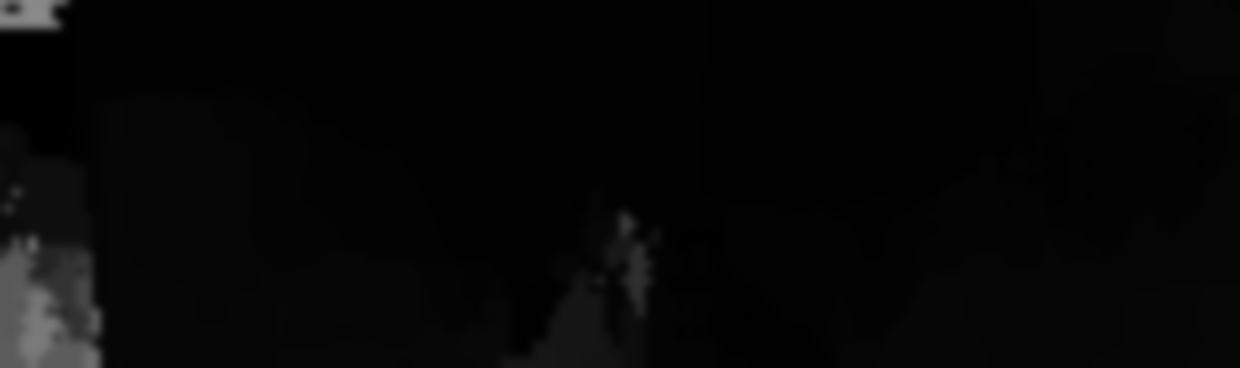
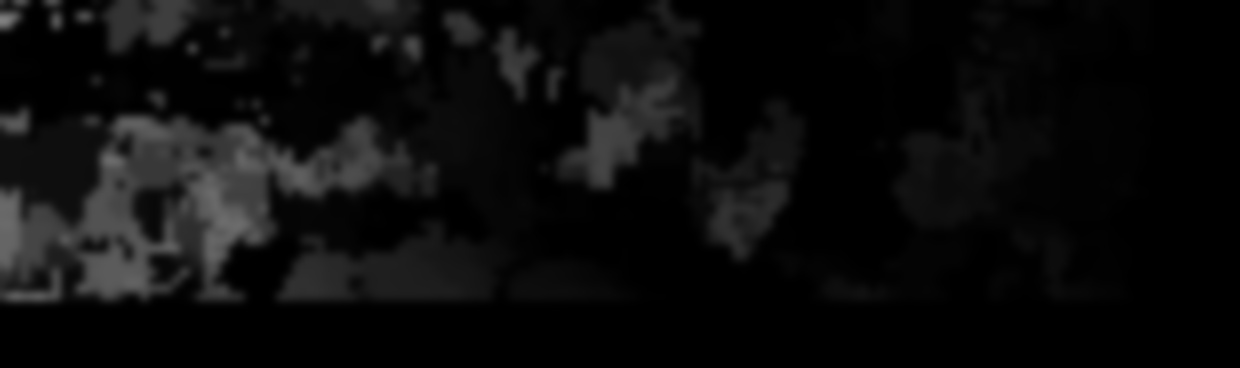
add

diff --git a/A4/a4q2.py b/A4/a4q2.py
@@ -3,8 +3,9 @@ import numpy as np
 import cv2 as cv
 import matplotlib.pyplot as plt
 import progressbar
+from scipy.ndimage.filters import gaussian_filter
 
-patch_size = 8
+patch_size = 4
 
 f = 721.537700
 px = 609.559300
@@ -26,10 +27,17 @@ def load_grey_scale_image(filepath):
     return image
 
 
-left_grey = load_grey_scale_image('./A4_files/000020_left.jpg')
-right_grey = load_grey_scale_image('./A4_files/000020_right.jpg')
-left_color = load_color_image('./A4_files/000020_left.jpg')
-right_color = load_color_image('./A4_files/000020_right.jpg')
+def increase_brightness(img, value=50):
+    hsv = cv.cvtColor(img, cv.COLOR_BGR2HSV)
+    h, s, v = cv.split(hsv)
+
+    lim = 255 - value
+    v[v > lim] = 255
+    v[v <= lim] += value
+
+    final_hsv = cv.merge((h, s, v))
+    img = cv.cvtColor(final_hsv, cv.COLOR_HSV2BGR)
+    return img
 
 
 def show_image(img):
@@ -40,6 +48,18 @@ def show_image(img):
 
 def save_image(fname, img):
     cv.imwrite(fname, img)
+
+
+left_color = load_color_image('./A4_files/000020_left.jpg')
+right_color = load_color_image('./A4_files/000020_right.jpg')
+left_bright = increase_brightness(left_color)
+right_bright = increase_brightness(right_color)
+save_image("./A4_files/000020_left_bright.jpg", left_bright)
+save_image("./A4_files/000020_right_bright.jpg", right_bright)
+left_grey = load_grey_scale_image('./A4_files/000020_left_bright.jpg')
+right_grey = load_grey_scale_image('./A4_files/000020_right_bright.jpg')
+# left_grey = gaussian_filter(left_grey, sigma=7)
+# right_grey = gaussian_filter(right_grey, sigma=7)
 
 
 def ssd(patch1, patch2):
@@ -71,21 +91,21 @@ def draw_box(x1, y1, x2, y2, img, thickness=0):
 # (a)
 
 
-def down_sample(img, factor, ite=1):
+def down_sample(img, factor, ite=3):
     for i in range(ite):
         height, width = img.shape[0], img.shape[1]
         img = cv.pyrDown(img, dstsize=(width // factor, height // factor))
     return img
 
 
-def up_sample(img, factor, ite=1):
+def up_sample(img, factor, ite=3):
     for i in range(ite):
         height, width = img.shape[0], img.shape[1]
         img = cv.pyrUp(img, dstsize=(width * factor, height * factor))
     return img
 
 
-def scan_all(downsample_factor=2, img1=left_grey, img2=right_grey, patch_size=patch_size):
+def scan_all(scan_size=1000000, downsample_factor=2, img1=left_grey, img2=right_grey, patch_size=patch_size):
     img1 = down_sample(img1, downsample_factor)
     img2 = down_sample(img2, downsample_factor)
     height1, width1 = img1.shape[0], img1.shape[1]
@@ -93,50 +113,47 @@ def scan_all(downsample_factor=2, img1=left_grey, img2=right_grey, patch_size=pa
     assert height1 == height2 and width1 == width2
 
     # Setup progress bar
-    ite_num = (height1 - 2 * patch_size) * (width1 - 2 *
-                                            patch_size) * (width2 - 2 * patch_size)
+    ite_num = height1 * width1 * 2 * min(scan_size, width2)
     bar = progressbar.ProgressBar(maxval=ite_num,
                                   widgets=[progressbar.Bar('=', '[', ']'), ' ', progressbar.Percentage()])
     bar.start()
     count = 0
-
     # Start sliding window
     diff = np.zeros((height1, width1))
     match = np.zeros((height1, width1))
-    for y1 in range(height1):
-        for x1 in range(width1):
-            x1i = max(0, x1 - patch_size)
-            to_left = abs(x1 - x1i)
-            x1d = min(width1 - 1, x1 + patch_size)
-            to_right = abs(x1 - x1d)
-            y1i = max(0, y1 - patch_size)
-            to_up = abs(y1 - y1i)
-            y1d = min(height1 - 1, y1 + patch_size)
-            to_down = abs(y1 - y1d)
-            patch1 = img1[y1i: y1d, x1i:x1d]
-
+    for y1 in range(patch_size, height1 - patch_size):
+        for x1 in range(patch_size, width1 - patch_size):
+            patch1 = img1[y1 - patch_size: y1 + patch_size,
+                          x1 - patch_size:x1 + patch_size]
             y2 = y1
             best_score = None
             best_ind = None
-            yd = min(height1 - 1, y1)
-            xd = min(width1 - 1, x1)
-            for x2 in range(to_left, width2 - to_right):
-                x2i = max(0, x2 - to_left)
-                x2d = min(width2 - 1, x2 + to_right)
-                y2i = max(0, y2 - to_up)
-                y2d = min(height2 - 1, y2 + to_down)
-                patch2 = img2[y2i: y2d, x2i:x2d]
-                assert patch1.shape == patch2.shape
+            max_col = min(width2 - patch_size - x1 - 1, scan_size)
+            for k in range(0, max_col):
+                xi = x1 - patch_size + k
+                xd = x1 + patch_size + k
+                patch2 = img2[y2 - patch_size:y2 + patch_size, xi:xd]
                 score = ssd(patch1, patch2)
-                if best_score is None or best_score > score:
+                if best_score is None or score < best_score:
                     best_score = score
-                    best_ind = x2
-                count += 1
-                if count <= ite_num:
-                    bar.update(count)
+                    best_ind = k
+            diff[y1 - patch_size, x1 - patch_size] = best_ind
+            # for x2 in range(max(x1 - scan_size, patch_size), min(x1 + scan_size, width2 - patch_size)):
+            #     patch2 = img2[y2 - patch_size: y2 + patch_size,
+            #                   x2 - patch_size:x2 + patch_size]
+            #     assert patch1.shape == patch2.shape
+            #     score = ssd(patch1, patch2)
+            #     if best_score is None or best_score > score:
+            #         best_score = score
+            #         best_ind = x2
+            #     count += 1
+            #     if count <= ite_num:
+            #         bar.update(count)
             # addup = 10000 * score/((patch_size ** 2 * 255) ** 2)
-            addup = 0
-            diff[y1, x1] = abs(best_ind - x1) + addup
+            # addup = 0
+            # diff[y1, x1] = abs(best_ind - x1) + addup
+    print(diff)
+    print("\ndone matching")
     diff = up_sample(diff, downsample_factor)
     save_image("./diff.jpg", diff)
     return diff
@@ -192,39 +209,5 @@ if __name__ == "__main__":
     depth = calculate_depth(diff)
     img1 = vconcate(left_grey, right_grey)
     img2 = vconcate(img1, depth)
-    save_image('./concated.jpg', img2)
+    save_image('./concated4.jpg', img2)
     # (b)
-  bar.start()
-  count = 0
-  myobj = plt.show(right_color)
-
-  point1 = (y1, x1)
-  point2 = (y1, x2)
-  point3 = (y2, x1)
-  point4 = (y2, x2)
-  points = [point1, point2, point3, point4]
-  for x in range(patch_size, width_right - patch_size):
-    for point in points:
-      y = point[0], point[1]
-  # for x in range(x1, x2 + 1):
-  #   for y in range(y1, y2 + 1):
-  #     target_patch = left_img[y - patch_size: y + patch_size, x - patch_size: x + patch_size]
-      
-  #     scores = []
-  #     for x2 in range(patch_size, width_right - patch_size):
-  #       source_patch = right_img[y - patch_size: y + patch_size, x2 - patch_size: x2 + patch_size]
-  #       score = nc(source_patch, target_patch)
-  #       scores.append(score)
-  #       count += 1
-  #       bar.update(count)
-  #     fx = np.argmin(scores)
-  #     right_color[y, fx] = np.array([0,255,0])
-  #     myobj.set_data(right_color)
-  #     plt.draw()
-  
-      
-
-  
-if __name__ == "__main__":
-  scan()
-    
